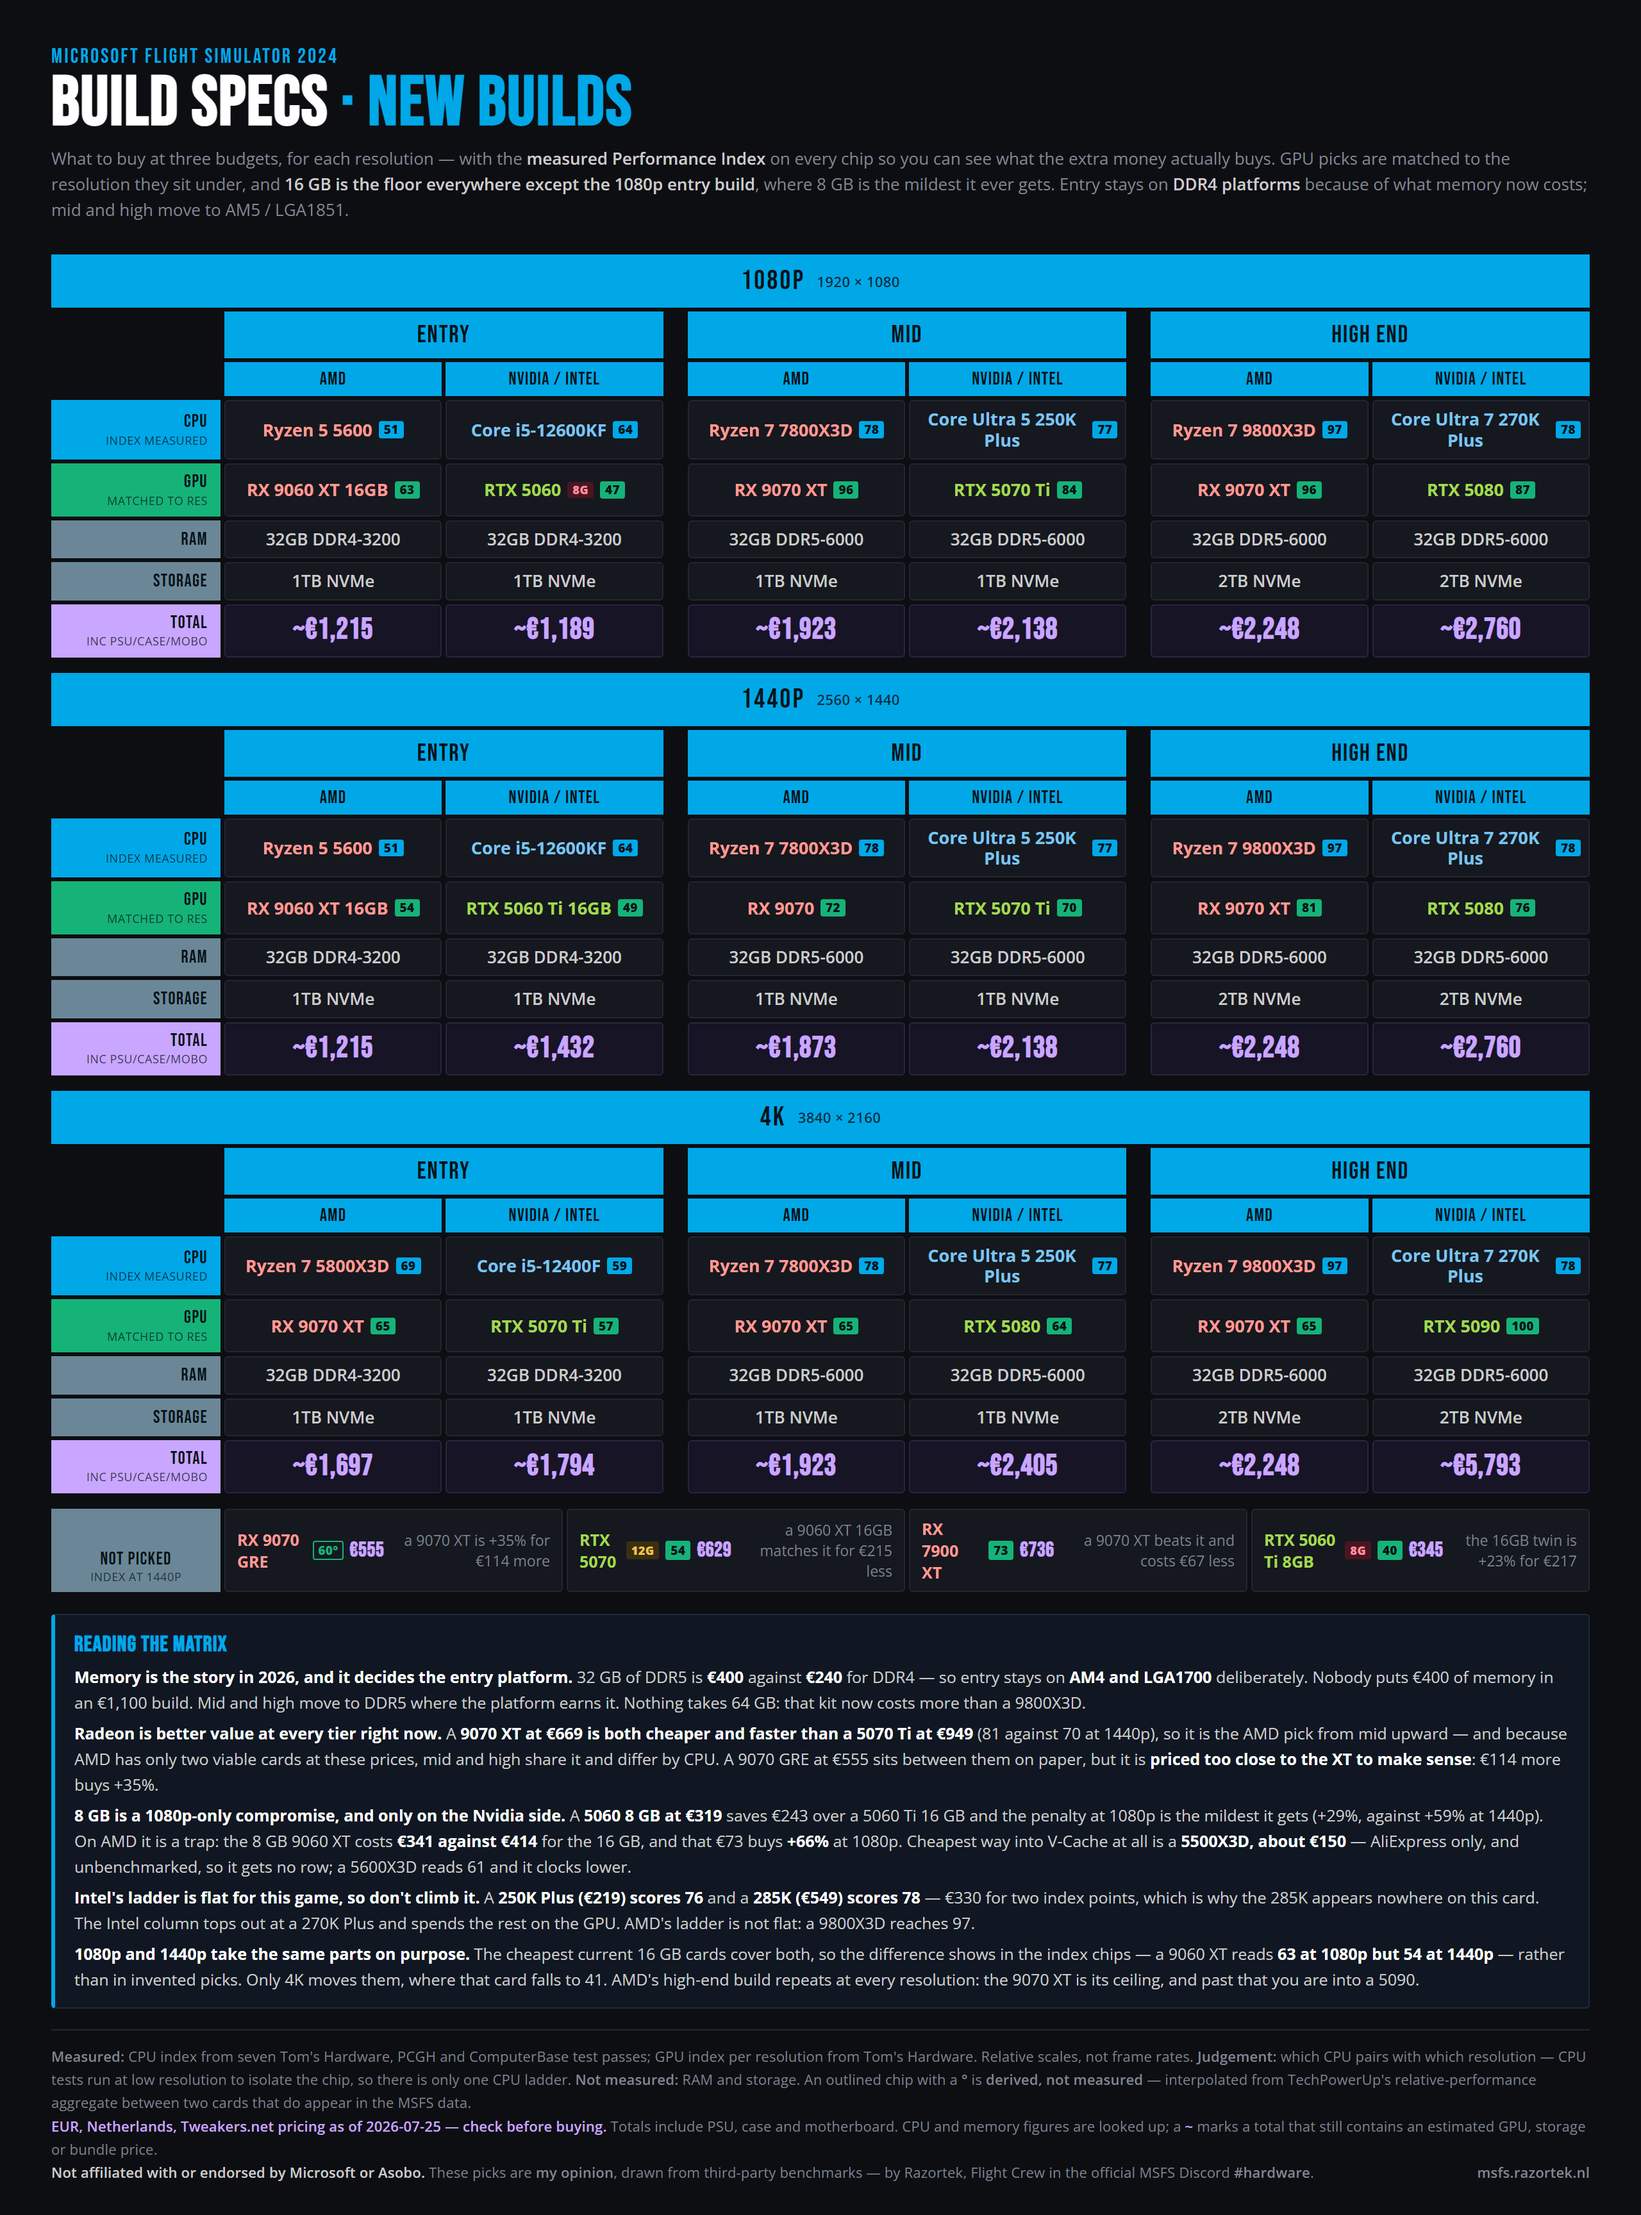
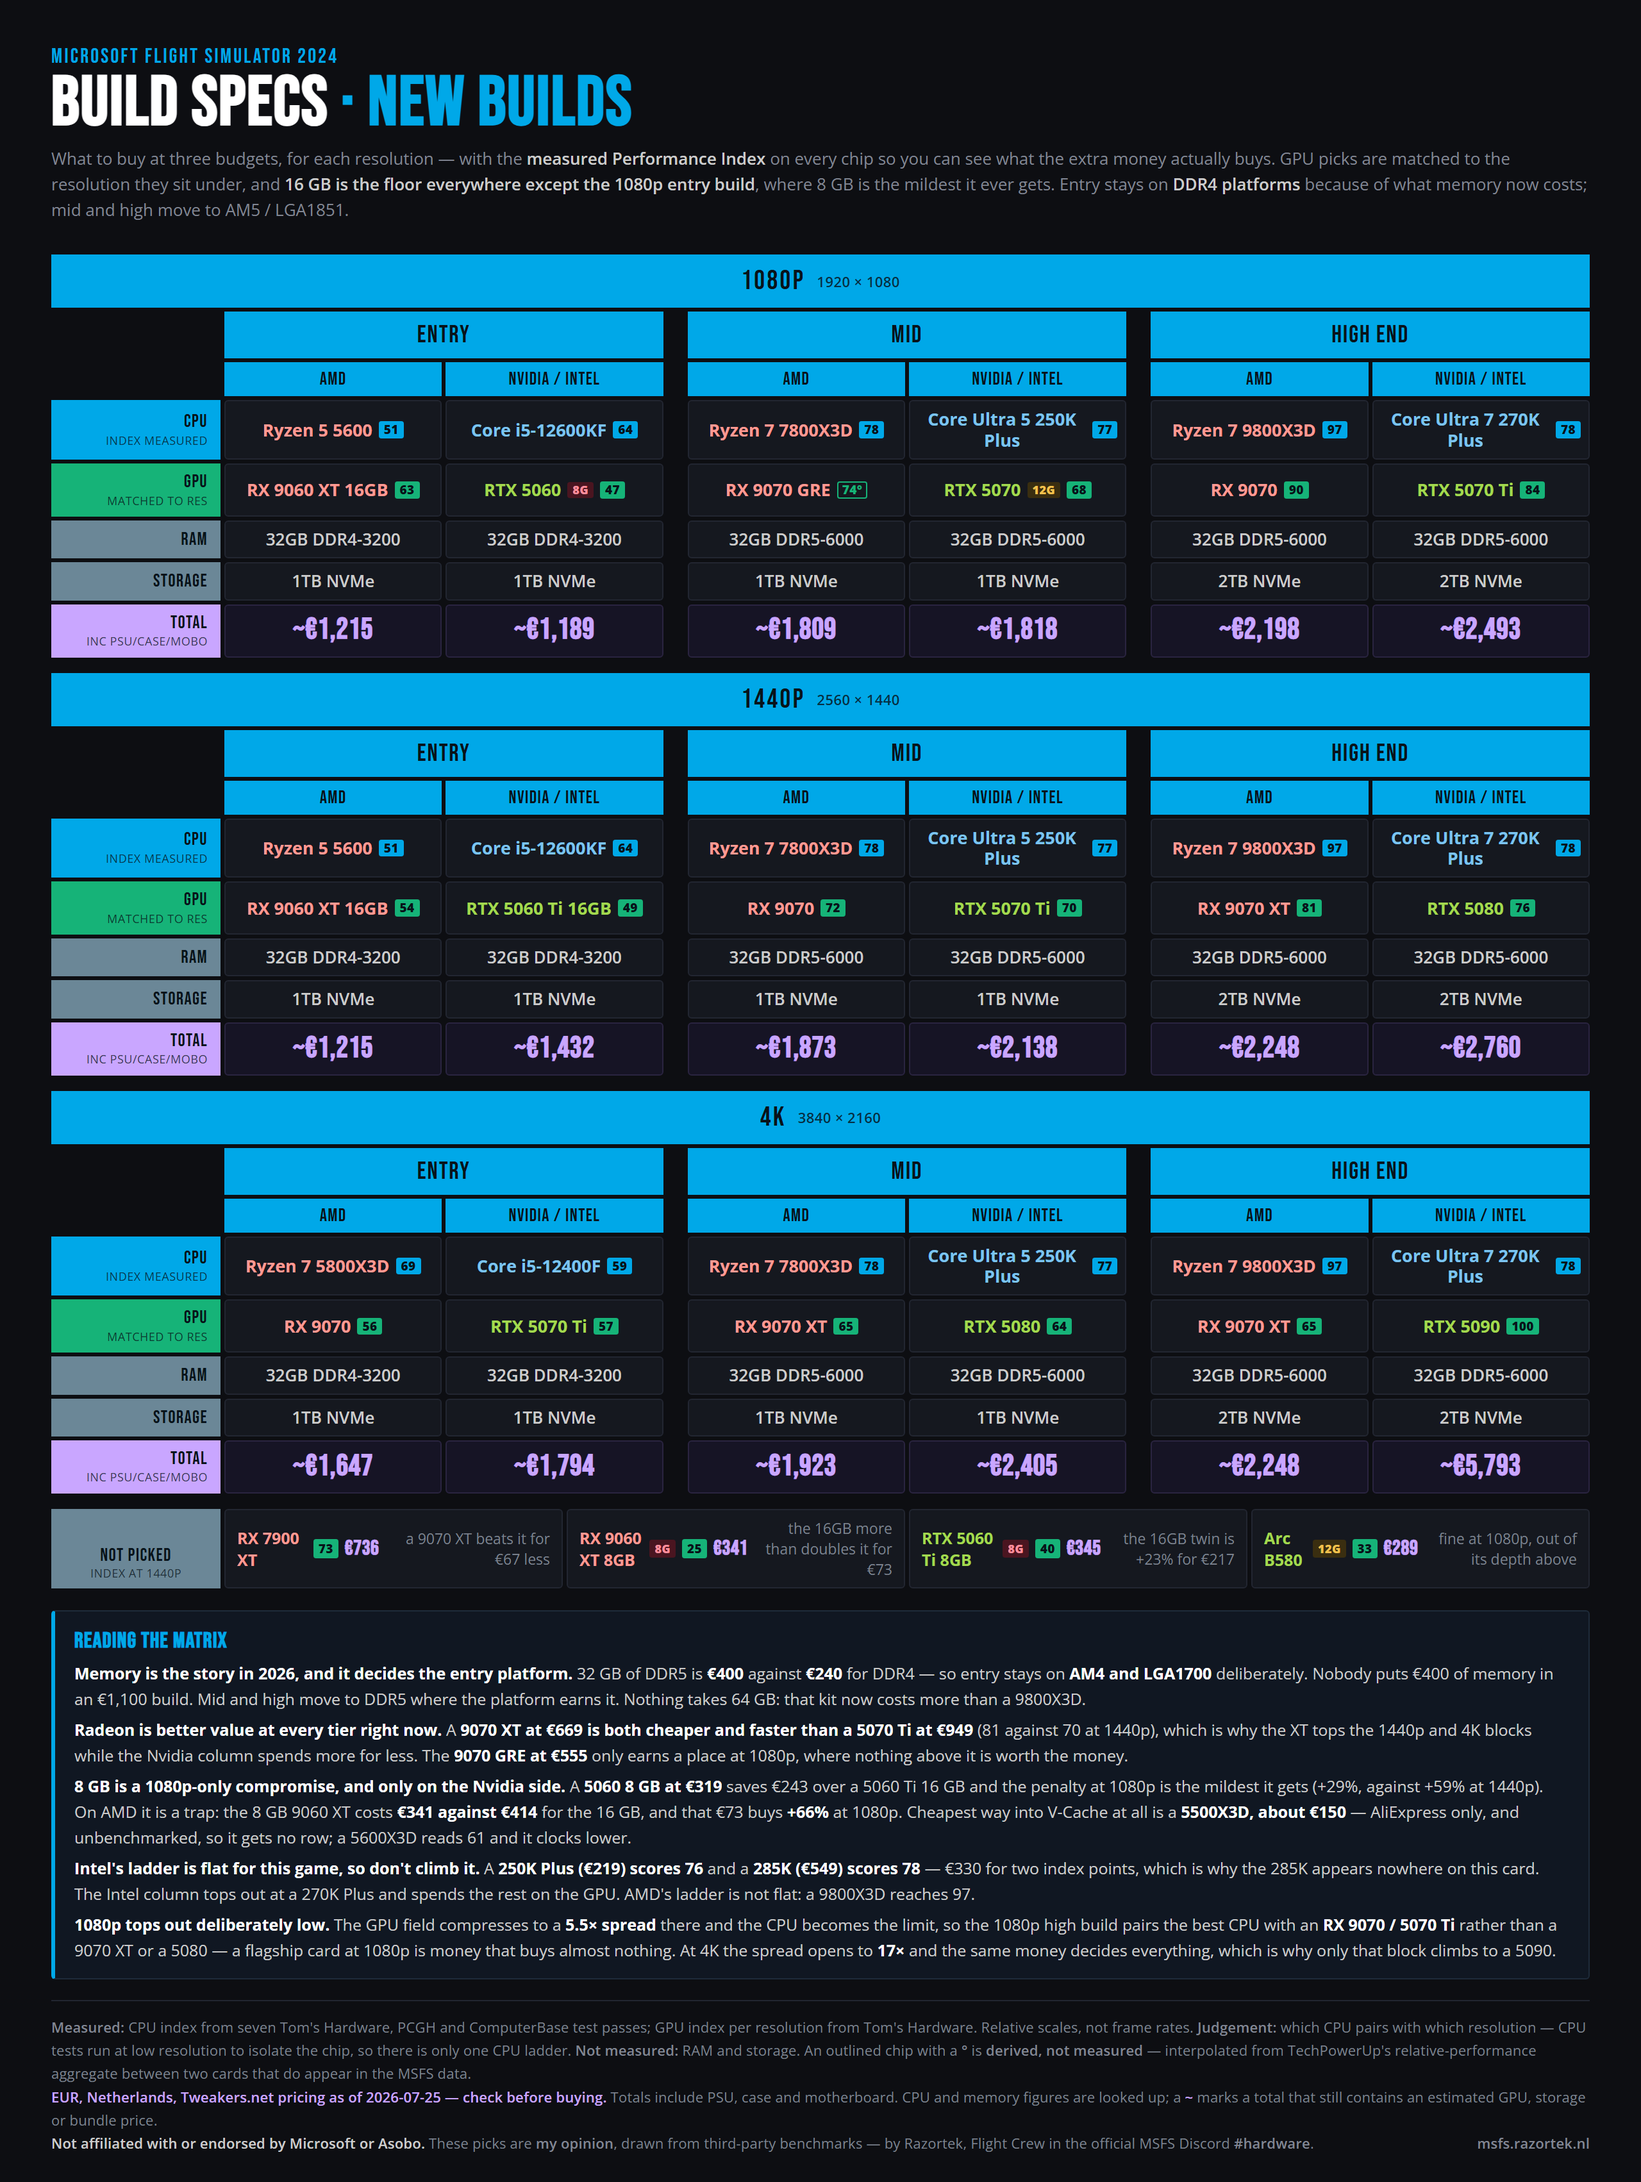
Cap the 1080p ladder below the flagships; give 4K AMD a ladder
The card argued that the GPU stops being the limit at 1080p and then put a
9070 XT and a 5080 in that block, which contradicted itself. 1080p now tops
out at an RX 9070 / 5070 Ti paired with the best CPU, and mid drops to the
9070 GRE / RTX 5070. A flagship card at 1080p is money that does nothing.

That also finds the GRE a job. It was in the "not picked" strip for being
priced too close to the XT, which is true at 1440p, but at 1080p nothing
above it earns its price -- so it moves into the matrix and the strip picks
up the 9060 XT 8GB and the B580 instead. The 5070 likewise had no home until
1080p mid.

4K entry steps down to a plain 9070. All three AMD tiers were previously the
same 9070 XT, so that column had no ladder at all; mid and high still share
the XT because it is AMD's ceiling, but entry now differs by more than CPU.

Every tier in every block now steps on both CPU and GPU, and prices rise
monotonically across resolutions within a tier.

Changed region(s): [[0.0312, 0.0311, 0.9688, 0.9965]]

diff --git a/tierlist_card_build.html b/tierlist_card_build.html
@@ -153,10 +153,10 @@ h1 em{font-style:normal;color:var(--acc)}
     move to DDR5 where the platform earns it. Nothing takes 64 GB: that kit now costs more
     than a 9800X3D.</p>
     <p><b>Radeon is better value at every tier right now.</b> A <b>9070 XT at €669 is both
-    cheaper and faster than a 5070 Ti at €949</b> (81 against 70 at 1440p), so it is the
-    AMD pick from mid upward — and because AMD has only two viable cards at these prices,
-    mid and high share it and differ by CPU. A 9070 GRE at €555 sits between them on
-    paper, but it is <b>priced too close to the XT to make sense</b>: €114 more buys +35%.</p>
+    cheaper and faster than a 5070 Ti at €949</b> (81 against 70 at 1440p), which is why
+    the XT tops the 1440p and 4K blocks while the Nvidia column spends more for less. The
+    <b>9070 GRE at €555</b> only earns a place at 1080p, where nothing above it is worth
+    the money.</p>
     <p><b>8 GB is a 1080p-only compromise, and only on the Nvidia side.</b> A
     <b>5060 8 GB at €319</b> saves €243 over a 5060 Ti 16 GB and the penalty at 1080p is
     the mildest it gets (+29%, against +59% at 1440p). On AMD it is a trap: the 8 GB
@@ -168,11 +168,12 @@ h1 em{font-style:normal;color:var(--acc)}
     index points, which is why the 285K appears nowhere on this card. The Intel column
     tops out at a 270K Plus and spends the rest on the GPU. AMD's ladder is not flat: a
     9800X3D reaches 97.</p>
-    <p><b>1080p and 1440p take the same parts on purpose.</b> The cheapest current 16 GB
-    cards cover both, so the difference shows in the index chips — a 9060 XT reads
-    <b>63 at 1080p but 54 at 1440p</b> — rather than in invented picks. Only 4K moves
-    them, where that card falls to 41. AMD's high-end build repeats at every resolution:
-    the 9070 XT is its ceiling, and past that you are into a 5090.</p>
+    <p><b>1080p tops out deliberately low.</b> The GPU field compresses to a
+    <b>5.5× spread</b> there and the CPU becomes the limit, so the 1080p high build pairs
+    the best CPU with an <b>RX 9070 / 5070 Ti</b> rather than a 9070 XT or a 5080 — a
+    flagship card at 1080p is money that buys almost nothing. At 4K the spread opens to
+    <b>17×</b> and the same money decides everything, which is why only that block climbs
+    to a 5090.</p>
   </div>
 
   <div class="foot">
@@ -204,12 +205,12 @@ const BUILDS = {
     { v:"nv", cpu:"Core i5-12600KF", ci:64, gpu:"RTX 5060", gi:47, gd:false, vram:8, ram:"32GB DDR4-3200", sto:"1TB NVMe", eur:1189, approx:true }
   ],
   "mid": [
-    { v:"amd", cpu:"Ryzen 7 7800X3D", ci:78, gpu:"RX 9070 XT", gi:96, gd:false, vram:16, ram:"32GB DDR5-6000", sto:"1TB NVMe", eur:1923, approx:true },
-    { v:"nv", cpu:"Core Ultra 5 250K Plus", ci:77, gpu:"RTX 5070 Ti", gi:84, gd:false, vram:16, ram:"32GB DDR5-6000", sto:"1TB NVMe", eur:2138, approx:true }
+    { v:"amd", cpu:"Ryzen 7 7800X3D", ci:78, gpu:"RX 9070 GRE", gi:74, gd:true, vram:null, ram:"32GB DDR5-6000", sto:"1TB NVMe", eur:1809, approx:true },
+    { v:"nv", cpu:"Core Ultra 5 250K Plus", ci:77, gpu:"RTX 5070", gi:68, gd:false, vram:12, ram:"32GB DDR5-6000", sto:"1TB NVMe", eur:1818, approx:true }
   ],
   "high": [
-    { v:"amd", cpu:"Ryzen 7 9800X3D", ci:97, gpu:"RX 9070 XT", gi:96, gd:false, vram:16, ram:"32GB DDR5-6000", sto:"2TB NVMe", eur:2248, approx:true },
-    { v:"nv", cpu:"Core Ultra 7 270K Plus", ci:78, gpu:"RTX 5080", gi:87, gd:false, vram:16, ram:"32GB DDR5-6000", sto:"2TB NVMe", eur:2760, approx:true }
+    { v:"amd", cpu:"Ryzen 7 9800X3D", ci:97, gpu:"RX 9070", gi:90, gd:false, vram:16, ram:"32GB DDR5-6000", sto:"2TB NVMe", eur:2198, approx:true },
+    { v:"nv", cpu:"Core Ultra 7 270K Plus", ci:78, gpu:"RTX 5070 Ti", gi:84, gd:false, vram:16, ram:"32GB DDR5-6000", sto:"2TB NVMe", eur:2493, approx:true }
   ],
 },
 "1440p": {
@@ -228,7 +229,7 @@ const BUILDS = {
 },
 "4K": {
   "entry": [
-    { v:"amd", cpu:"Ryzen 7 5800X3D", ci:69, gpu:"RX 9070 XT", gi:65, gd:false, vram:16, ram:"32GB DDR4-3200", sto:"1TB NVMe", eur:1697, approx:true },
+    { v:"amd", cpu:"Ryzen 7 5800X3D", ci:69, gpu:"RX 9070", gi:56, gd:false, vram:16, ram:"32GB DDR4-3200", sto:"1TB NVMe", eur:1647, approx:true },
     { v:"nv", cpu:"Core i5-12400F", ci:59, gpu:"RTX 5070 Ti", gi:57, gd:false, vram:16, ram:"32GB DDR4-3200", sto:"1TB NVMe", eur:1794, approx:true }
   ],
   "mid": [
@@ -242,10 +243,10 @@ const BUILDS = {
 },
 };
 const NOT_PICKED = [
-  { p:"RX 9070 GRE", eur:555, gi:60, gd:true, vram:null, why:"a 9070 XT is +35% for €114 more" },
-  { p:"RTX 5070", eur:629, gi:54, gd:false, vram:12, why:"a 9060 XT 16GB matches it for €215 less" },
-  { p:"RX 7900 XT", eur:736, gi:73, gd:false, vram:20, why:"a 9070 XT beats it and costs €67 less" },
+  { p:"RX 7900 XT", eur:736, gi:73, gd:false, vram:20, why:"a 9070 XT beats it for €67 less" },
+  { p:"RX 9060 XT 8GB", eur:341, gi:25, gd:false, vram:8, why:"the 16GB more than doubles it for €73" },
   { p:"RTX 5060 Ti 8GB", eur:345, gi:40, gd:false, vram:8, why:"the 16GB twin is +23% for €217" },
+  { p:"Arc B580", eur:289, gi:33, gd:false, vram:12, why:"fine at 1080p, out of its depth above" },
 ];
 // >>> BUILDS
 

diff --git a/make_build_table.py b/make_build_table.py
@@ -48,10 +48,10 @@ CPU_ALIAS = {
 # under it because "why isn't X in here?" is the question that always follows.
 # (part, reason) — index shown is at 1440p.
 NOT_PICKED = [
-    ('RX 9070 GRE', 'a 9070 XT is +35% for €114 more'),
-    ('RTX 5070', 'a 9060 XT 16GB matches it for €215 less'),
-    ('RX 7900 XT', 'a 9070 XT beats it and costs €67 less'),
+    ('RX 7900 XT', 'a 9070 XT beats it for €67 less'),
+    ('RX 9060 XT 8GB', 'the 16GB more than doubles it for €73'),
     ('RTX 5060 Ti 8GB', 'the 16GB twin is +23% for €217'),
+    ('Arc B580', 'fine at 1080p, out of its depth above'),
 ]
 TIERS = ['entry', 'mid', 'high']
 VENDORS = ['amd', 'nv']
